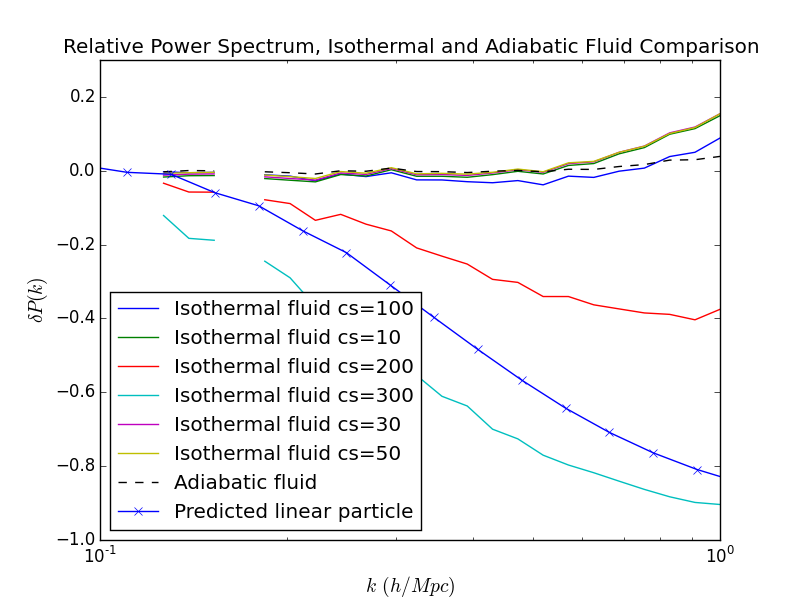
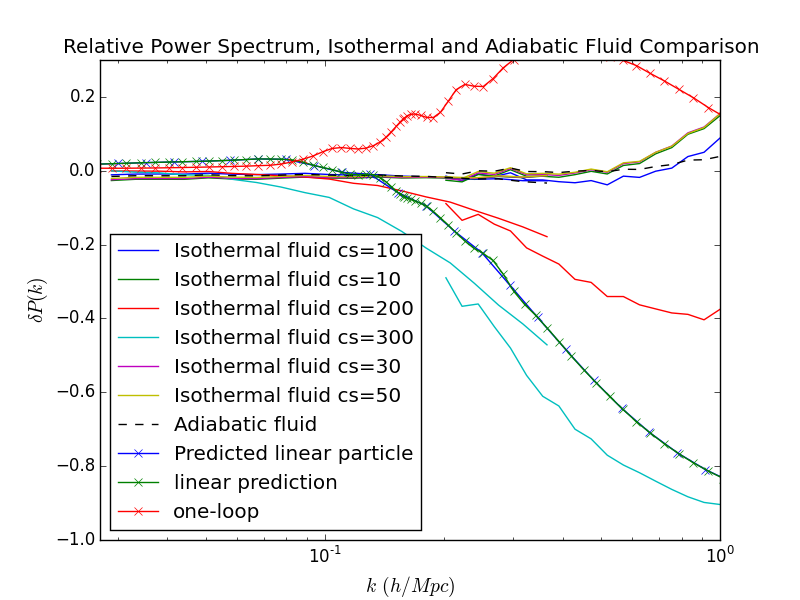
Adding larger box sizes.

diff --git a/plots/isothermal/isothermal_fluid_low_adiabatic_normalized_particle_z10_minpressure_z100.py b/plots/isothermal/isothermal_fluid_low_adiabatic_normalized_particle_z10_minpressure_z100.py
@@ -10,21 +10,19 @@ isothermalpattern = re.compile(r'_iso(\d+)')
 testgrowthpattern = re.compile(r'testgrowthcs(\d+)')
 npattern = re.compile(r'_n(\d+)')
 
-soundspeeds = ['10','30','50','100','200','300']
-
 simtypes = ['fluid']
 for simtype in simtypes:
-    params = [simtype,'b100','n1024','t0.005','h2','iso','z10_','z100']
+    params = [simtype,'b100','n1024','t0.005','h2','iso','z10_']
     filenames = [filename for filename in results if all(param in filename for param in params)]
     filenames.append('fluid_b100_n1024_t0.005_h2_z100_z10.out')
-
-    base = 'particle_b100_n1024_t0.005_h2_z100_z10.out'
+    base = 'particle_b100_n1024_t0.005_h2_z10.out'
+    
     kvalues_base, ps_base = np.loadtxt(result_dir+base, unpack=True)
 
     for filename in filenames:
         if 'iso' in filename and 'minpressure16' in filename:
             isothermal = isothermalpattern.findall(filename)[0]
-            if isothermal in soundspeeds:
+            if isothermal in ['10','30','100']:
                 n = npattern.findall(filename)[0]
                 kvalues, ps = np.loadtxt(result_dir+filename, unpack=True)
                 ps = (ps - ps_base)/ps_base
@@ -34,53 +32,23 @@ for simtype in simtypes:
             ps = (ps - ps_base)/ps_base
             plt.semilogx(kvalues, ps, '--', label='Adiabatic fluid')
 
-base = 'particle_b400_n1024_t0.005_h2_z100_z10.out'
-kvalues_base, ps_base = np.loadtxt(result_dir+base, unpack=True)
-kvalues_base = kvalues_base[kvalues_base < 10]
-ps_base = ps_base[:len(kvalues_base)]
-
-simtypes = ['fluid']
-for simtype in simtypes:
-    params = [simtype,'b400','n1024','t0.005','h2','iso','z10_','z100']
-    filenames = [filename for filename in results if all(param in filename for param in params)]
-    filenames.append('fluid_b400_n1024_t0.005_h2_z100_z10.out')
-    print filenames
-    for filename in filenames:
-        if 'iso' in filename and 'minpressure16' in filename:
-            isothermal = isothermalpattern.findall(filename)[0]
-            print isothermal
-            if int(isothermal) <= 300:
-                n = npattern.findall(filename)[0]
-                kvalues, ps = np.loadtxt(result_dir+filename, unpack=True)
-                kvalues = kvalues[:len(kvalues_base)]
-                ps = ps[:len(kvalues)]
-                ps = (ps - ps_base)/ps_base
-                style = '-'
-                plt.semilogx(kvalues, ps, style, label=None)
-        elif filename is 'fluid_b400_n1024_t0.005_h2_z100_z10.out': 
-            kvalues, ps = np.loadtxt(result_dir+filename, unpack=True)
-            kvalues = kvalues[:len(kvalues_base)]
-            ps = ps[:len(kvalues)]
-            ps = (ps - ps_base)/ps_base
-            plt.semilogx(kvalues, ps, '--', label=None)
-
 filenames = [filename for filename in results if 'testgrowth' in filename]
 for filename in filenames:
     testgrowth = testgrowthpattern.findall(filename)[0]
-    if testgrowth in soundspeeds:
+    if testgrowth in ['10','30','100']:
         label = 'predicted cs='+testgrowth
         col1, kvalues, linearpower, col4, col5, sqrtsuppression = np.loadtxt(result_dir+filename, unpack=True)
         style = '-x'
         ps = (sqrtsuppression**2) - 1
         #ps /= 4*np.pi**2
-        #plt.semilogx(kvalues, ps, style, label=label)
+        plt.semilogx(kvalues, ps, style, label=label)
 
-plt.xlim([0.1,7.0])
-plt.ylim([-0.3,0.1])
+plt.xlim([1e-1,5e0])
+plt.ylim([-0.1,0.1])
 plt.xlabel('$k \, (h/Mpc)$', fontsize=14)
 plt.ylabel('$\delta P(k)$', fontsize=14)
 plt.title('Relative Power Spectrum, Isothermal and Adiabatic Fluid Comparison z=10')
-plt.legend(numpoints=1, loc='best', fontsize=10)
+plt.legend(numpoints=1, loc='best')
 plt.savefig('isothermal_fluid_low_adiabatic_normalized_particle_z10_minpressure.png')
 
 plt.show()

diff --git a/plots/isothermal/isothermal_fluid_low_adiabatic_normalized_particle_minpressure.py b/plots/isothermal/isothermal_fluid_low_adiabatic_normalized_particle_minpressure.py
@@ -11,6 +11,9 @@ npattern = re.compile(r'_n(\d+)')
 
 base = 'particle_b100_n1024_t0.005_h2_z100.out'
 kvalues_base, ps_base = np.loadtxt(result_dir+base, unpack=True)
+outofrange = len(kvalues_base) - len(kvalues_base[kvalues_base > 0.2])
+kvalues_base = kvalues_base[kvalues_base > 0.2]
+ps_base = ps_base[outofrange:]
 
 simtypes = ['fluid']
 for simtype in simtypes:
@@ -24,19 +27,60 @@ for simtype in simtypes:
             if int(isothermal) <= 300:
                 n = npattern.findall(filename)[0]
                 kvalues, ps = np.loadtxt(result_dir+filename, unpack=True)
+                kvalues = kvalues[outofrange:]
+                ps = ps[outofrange:]
                 ps = (ps - ps_base)/ps_base
                 style = '-'
                 plt.semilogx(kvalues, ps, style, label='Isothermal fluid cs='+isothermal)
         elif filename is 'fluid_b100_n1024_t0.005_h2_z100.out': 
             kvalues, ps = np.loadtxt(result_dir+filename, unpack=True)
+            kvalues = kvalues[outofrange:]
+            ps = ps[outofrange:]
             ps = (ps - ps_base)/ps_base
             plt.semilogx(kvalues, ps, '--', label='Adiabatic fluid')
+
+base = 'particle_b400_n1024_t0.005_h2_z100.out'
+kvalues_base, ps_base = np.loadtxt(result_dir+base, unpack=True)
+kvalues_base = kvalues_base[kvalues_base < 0.4]
+ps_base = ps_base[:len(kvalues_base)]
+
+simtypes = ['fluid']
+for simtype in simtypes:
+    params = [simtype,'b400','n1024','t0.005','h2','isothermal', 'z100']
+    filenames = [filename for filename in results if all(param in filename for param in params)]
+    filenames.append('fluid_b400_n1024_t0.005_h2_z100.out')
+
+    for filename in filenames:
+        if 'isothermal' in filename and 'minpressure16' in filename:
+            isothermal = isothermalpattern.findall(filename)[0]
+            print isothermal
+            if int(isothermal) <= 300:
+                n = npattern.findall(filename)[0]
+                kvalues, ps = np.loadtxt(result_dir+filename, unpack=True)
+                kvalues = kvalues[:len(kvalues_base)]
+                ps = ps[:len(kvalues)]
+                ps = (ps - ps_base)/ps_base
+                style = '-'
+                plt.semilogx(kvalues, ps, style, label=None)
+        elif filename is 'fluid_b400_n1024_t0.005_h2_z100.out': 
+            kvalues, ps = np.loadtxt(result_dir+filename, unpack=True)
+            kvalues = kvalues[:len(kvalues_base)]
+            ps = ps[:len(kvalues)]
+            ps = (ps - ps_base)/ps_base
+            plt.semilogx(kvalues, ps, '--', label=None)
 
 _, linear_kvalues, linear_ps, nonlinear_ps = np.loadtxt(result_dir+'testPk0.dat', unpack=True)
 linear_ps = (linear_ps - nonlinear_ps)/nonlinear_ps
 plt.semilogx(linear_kvalues, linear_ps, '-x', label='Predicted linear particle')
 
-plt.xlim([0.1,1])
+_, linear_kvalues_400, _, nonlinear_ps_400, linear_ps_400, oneloop_400 = np.loadtxt(result_dir+'testPk0.400.dat', unpack=True)
+linear_ps_400 = (linear_ps_400 - nonlinear_ps_400)/nonlinear_ps_400
+oneloop_400 = (oneloop_400 - nonlinear_ps_400)/nonlinear_ps_400
+plt.semilogx(linear_kvalues_400, linear_ps_400, '-x', label='linear prediction')
+plt.semilogx(linear_kvalues_400, oneloop_400, '-x', label='one-loop')
+
+
+plt.xlim([0.027,1])
 plt.ylim([-1.0,0.3])
 plt.xlabel('$k \, (h/Mpc)$', fontsize=14)
 plt.ylabel('$\delta P(k)$', fontsize=14)

diff --git a/plots/isothermal/isothermal_fluid_low_adiabatic_normalized_particle_minpressure_z100.py b/plots/isothermal/isothermal_fluid_low_adiabatic_normalized_particle_minpressure_z100.py
@@ -1,0 +1,43 @@
+import os
+import re
+import numpy as np
+import matplotlib.pyplot as plt
+
+result_dir = '../../results/'
+results = os.listdir(result_dir)
+
+isothermalpattern = re.compile(r'_isothermal(\d+)')
+npattern = re.compile(r'_n(\d+)')
+
+simtypes = ['fluid']
+for simtype in simtypes:
+    params = [simtype,'b100','n1024','t0.005','h2','isothermal']
+    filenames = [filename for filename in results if all(param in filename for param in params)]
+    filenames.append('fluid_b100_n1024_t0.005_h2_z100.out')
+    base = 'particle_b100_n1024_t0.005_h2_z50.out'
+    
+    kvalues_base, ps_base = np.loadtxt(result_dir+base, unpack=True)
+
+    for filename in filenames:
+        if 'isothermal' in filename and 'minpressure16' in filename:
+            isothermal = isothermalpattern.findall(filename)[0]
+            if int(isothermal) < 300:
+                n = npattern.findall(filename)[0]
+                kvalues, ps = np.loadtxt(result_dir+filename, unpack=True)
+                ps = (ps - ps_base)/ps_base
+                style = '-x' if 'minpressure16' in filename else '-'
+                plt.semilogx(kvalues, ps, style, label='Isothermal fluid cs='+isothermal)
+        elif filename is 'fluid_b100_n1024_t0.005_h2_z100.out': 
+            kvalues, ps = np.loadtxt(result_dir+filename, unpack=True)
+            ps = (ps - ps_base)/ps_base
+            plt.semilogx(kvalues, ps, '--', label='Adiabatic fluid')
+
+plt.xlim([1e-1,5e0])
+plt.ylim([-0.1,0.5])
+plt.xlabel('$k \, (h/Mpc)$', fontsize=14)
+plt.ylabel('$\delta P(k)$', fontsize=14)
+plt.title('Relative Power Spectrum, Isothermal and Adiabatic Fluid Comparison')
+plt.legend(numpoints=1, loc='best')
+plt.savefig('isothermal_fluid_low_adiabatic_normalized_particle_minpressure_z100.png')
+
+plt.show()
